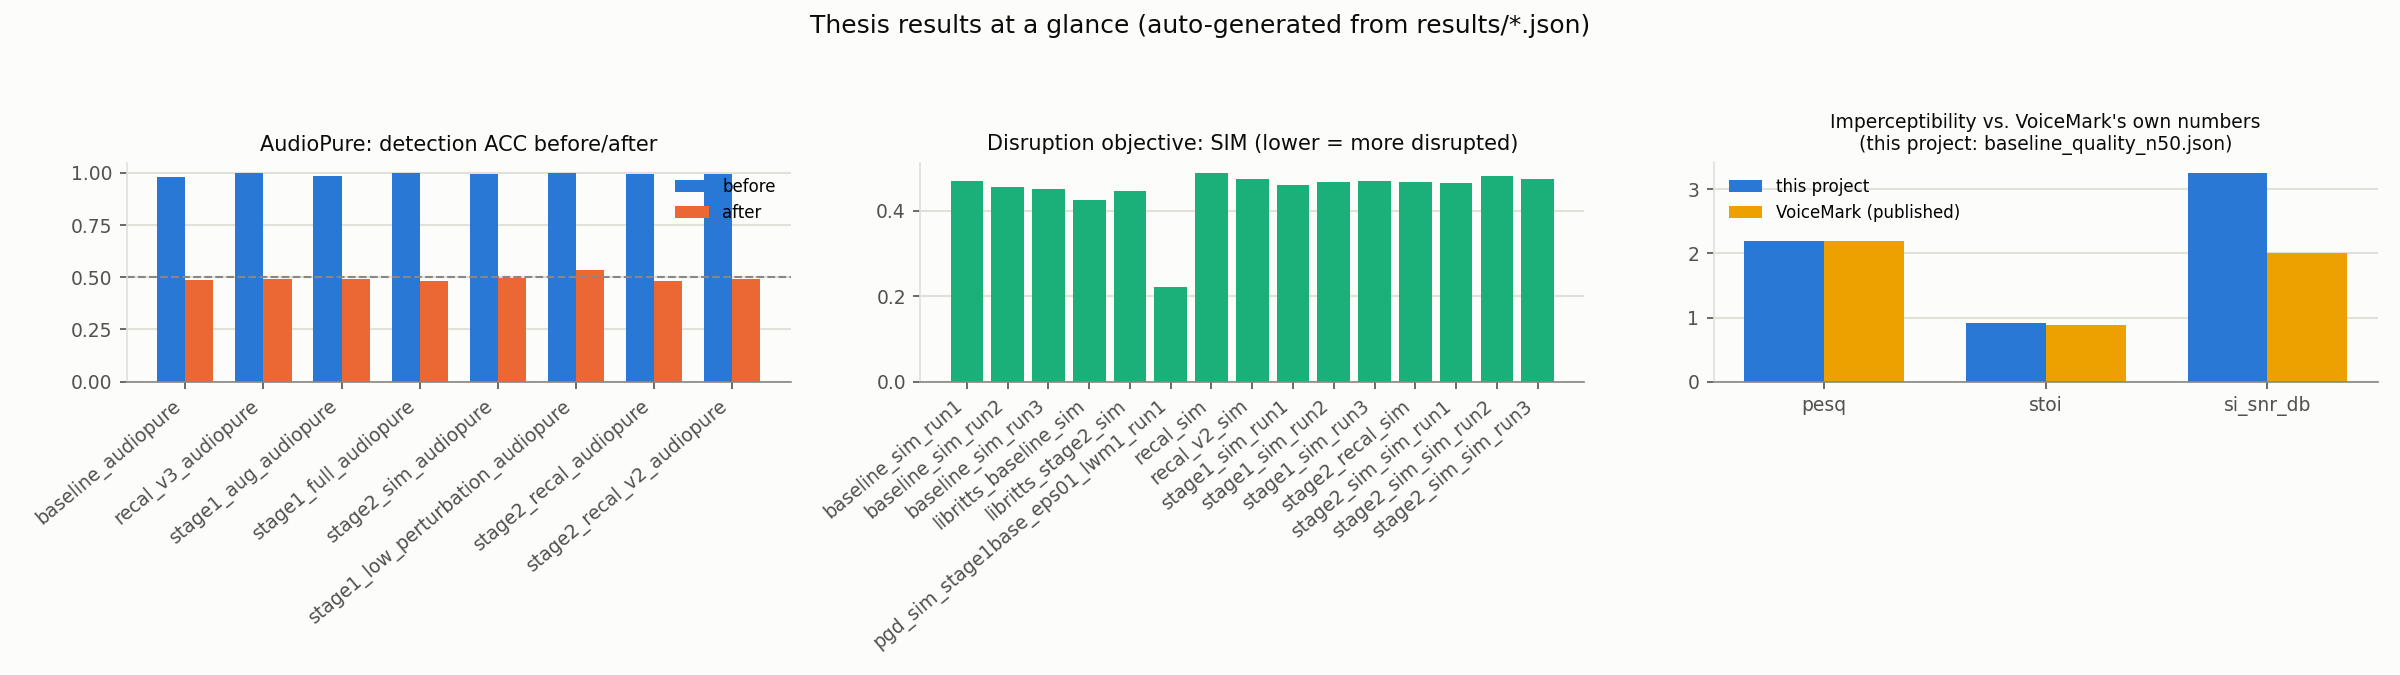
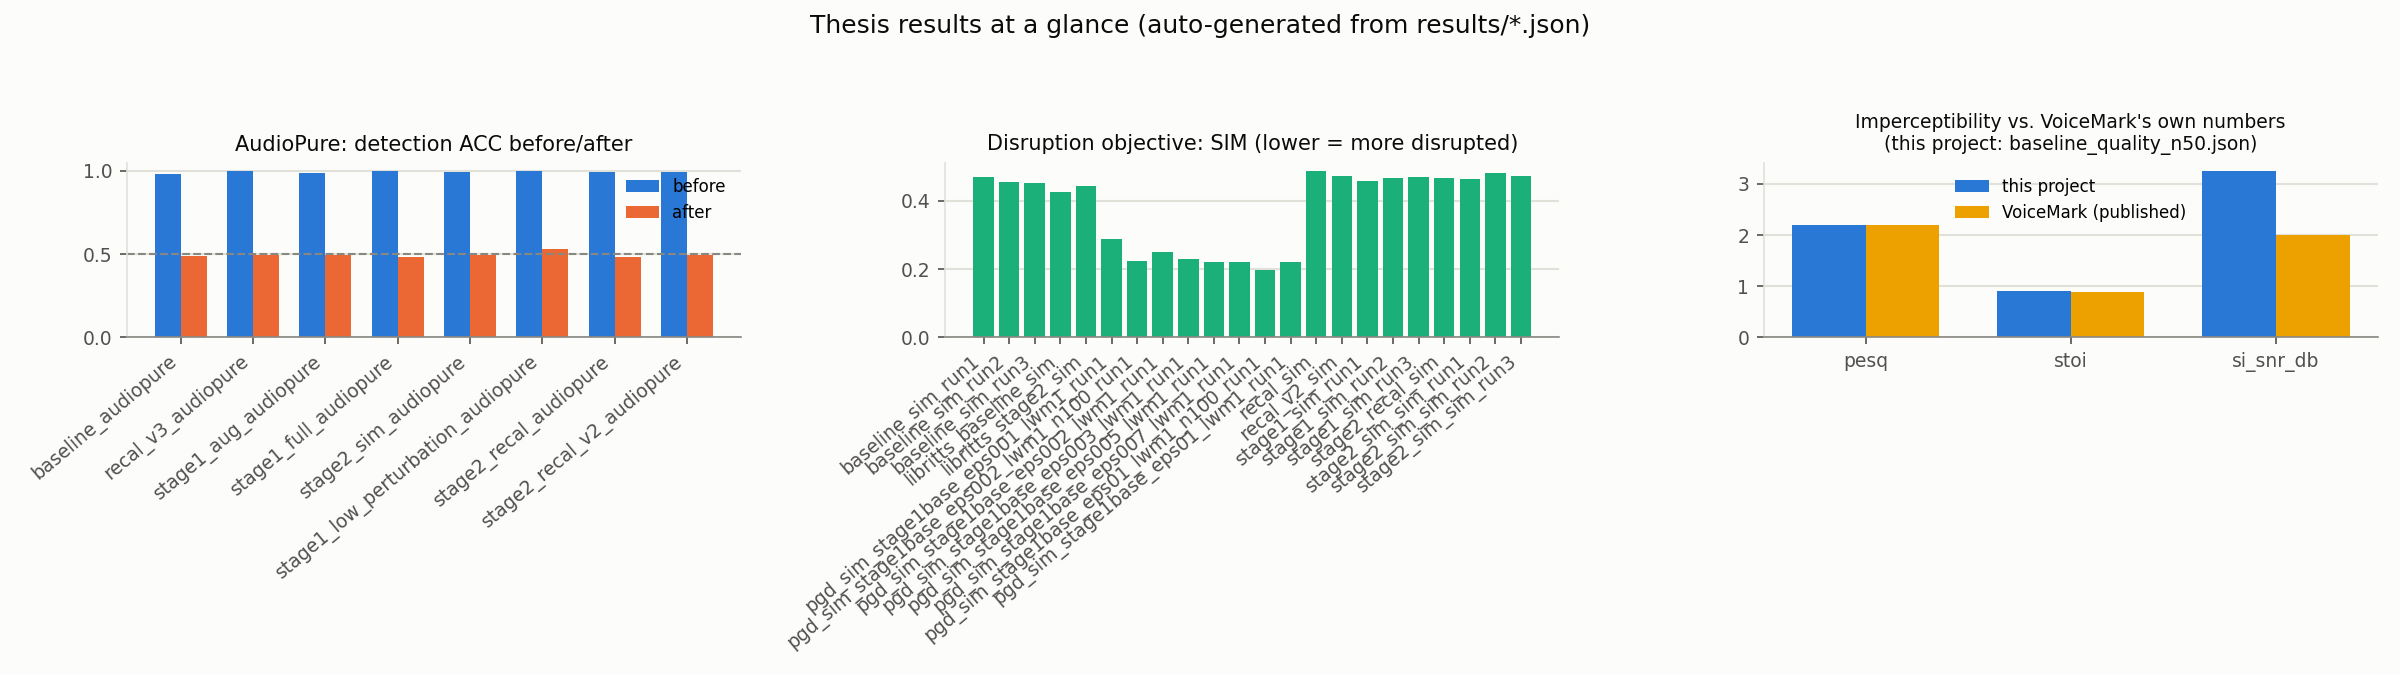
PGD hybrid: epsilon sweep, final operating point eps=0.002 lambda_wm=1.0, n=100 confirmation

diff --git a/results/aggregated/summary_table.md b/results/aggregated/summary_table.md
@@ -1,6 +1,6 @@
 # Aggregated results summary
 
-Generated from 43 files in results/. Values under 'this project' are measured; the two reference blocks below are literal transcriptions of published numbers, not measured here.
+Generated from 50 files in results/. Values under 'this project' are measured; the two reference blocks below are literal transcriptions of published numbers, not measured here.
 
 
 ## Audio quality (PESQ/STOI/SI-SNR)
@@ -42,24 +42,31 @@ Generated from 43 files in results/. Values under 'this project' are measured; t
 
 ## Disruption (SIM)
 
-| label                                                                                     | sample_dir                         |   mean_pesq |   mean_stoi |   mean_snr_db |   mean_wer | reference_text                             |      sim |   pivotal_distance |   sim_before |   sim_after |   sim_drop |   pivotal_before |   pivotal_after |   detection_acc_before |   detection_acc_after |   detection_acc_drop |   perturbation_linf_mean |   perturbation_snr_db_mean |
-|:------------------------------------------------------------------------------------------|:-----------------------------------|------------:|------------:|--------------:|-----------:|:-------------------------------------------|---------:|-------------------:|-------------:|------------:|-----------:|-----------------:|----------------:|-----------------------:|----------------------:|---------------------:|-------------------------:|---------------------------:|
-| baseline                                                                                  | nan                                |      nan    |    nan      |      nan      |   nan      | nan                                        |   0.4246 |             2.2107 |     nan      |    nan      |   nan      |         nan      |        nan      |               nan      |              nan      |             nan      |                   nan    |                   nan      |
-| ./checkpoints/stage2_sim_longrun_recalibrated_v2/recalibrated_final.pt                    | nan                                |      nan    |    nan      |      nan      |   nan      | nan                                        |   0.4448 |             2.1913 |     nan      |    nan      |   nan      |         nan      |        nan      |               nan      |              nan      |             nan      |                   nan    |                   nan      |
-| baseline                                                                                  | nan                                |      nan    |    nan      |      nan      |   nan      | nan                                        |   0.4704 |             1.8514 |     nan      |    nan      |   nan      |         nan      |        nan      |               nan      |              nan      |             nan      |                   nan    |                   nan      |
-| baseline                                                                                  | nan                                |      nan    |    nan      |      nan      |   nan      | nan                                        |   0.4552 |             1.8747 |     nan      |    nan      |   nan      |         nan      |        nan      |               nan      |              nan      |             nan      |                   nan    |                   nan      |
-| baseline                                                                                  | nan                                |      nan    |    nan      |      nan      |   nan      | nan                                        |   0.451  |             1.8734 |     nan      |    nan      |   nan      |         nan      |        nan      |               nan      |              nan      |             nan      |                   nan    |                   nan      |
-| pgd_eps0.01_n10_lwm1.0_on_./checkpoints/stage1_full_recalibrated_v3/recalibrated_final.pt | nan                                |      nan    |    nan      |      nan      |   nan      | nan                                        |   0.2214 |           nan      |       0.4675 |      0.2214 |     0.2461 |           1.8841 |          1.8471 |                 0.9952 |                0.9928 |               0.0024 |                     0.01 |                    19.3834 |
-| ./checkpoints/stage1_full_recalibrated/recalibrated_final.pt                              | nan                                |      nan    |    nan      |      nan      |   nan      | nan                                        |   0.4881 |             1.8611 |     nan      |    nan      |   nan      |         nan      |        nan      |               nan      |              nan      |             nan      |                   nan    |                   nan      |
-| ./checkpoints/stage1_full_recalibrated_v2/recalibrated_final.pt                           | nan                                |      nan    |    nan      |      nan      |   nan      | nan                                        |   0.4737 |             1.8798 |     nan      |    nan      |   nan      |         nan      |        nan      |               nan      |              nan      |             nan      |                   nan    |                   nan      |
-| ./checkpoints/stage1_full/stage1_epoch29.pt                                               | nan                                |      nan    |    nan      |      nan      |   nan      | nan                                        |   0.4593 |             1.8662 |     nan      |    nan      |   nan      |         nan      |        nan      |               nan      |              nan      |             nan      |                   nan    |                   nan      |
-| ./checkpoints/stage1_full/stage1_epoch29.pt                                               | nan                                |      nan    |    nan      |      nan      |   nan      | nan                                        |   0.4664 |             1.8688 |     nan      |    nan      |   nan      |         nan      |        nan      |               nan      |              nan      |             nan      |                   nan    |                   nan      |
-| ./checkpoints/stage1_full/stage1_epoch29.pt                                               | nan                                |      nan    |    nan      |      nan      |   nan      | nan                                        |   0.4695 |             1.8949 |     nan      |    nan      |   nan      |         nan      |        nan      |               nan      |              nan      |             nan      |                   nan    |                   nan      |
-| ./checkpoints/stage2_sim_longrun/stage2_epoch29.pt                                        | nan                                |      nan    |    nan      |      nan      |   nan      | nan                                        |   0.4654 |             1.8536 |     nan      |    nan      |   nan      |         nan      |        nan      |               nan      |              nan      |             nan      |                   nan    |                   nan      |
-| ./checkpoints/stage2_sim_longrun/stage2_epoch29.pt                                        | nan                                |      nan    |    nan      |      nan      |   nan      | nan                                        |   0.4803 |             1.8498 |     nan      |    nan      |   nan      |         nan      |        nan      |               nan      |              nan      |             nan      |                   nan    |                   nan      |
-| ./checkpoints/stage2_sim_longrun/stage2_epoch29.pt                                        | nan                                |      nan    |    nan      |      nan      |   nan      | nan                                        |   0.4735 |             1.8574 |     nan      |    nan      |   nan      |         nan      |        nan      |               nan      |              nan      |             nan      |                   nan    |                   nan      |
-| ./checkpoints/stage2_sim_longrun_recalibrated/recalibrated_final.pt                       | nan                                |      nan    |    nan      |      nan      |   nan      | nan                                        |   0.4671 |             1.8686 |     nan      |    nan      |   nan      |         nan      |        nan      |               nan      |              nan      |             nan      |                   nan    |                   nan      |
-| ./audio_samples/stage2_sim_longrun                                                        | ./audio_samples/stage2_sim_longrun |        2.18 |      0.9042 |        4.9038 |     0.0312 | This is a test sentence for voice cloning. | nan      |           nan      |     nan      |    nan      |   nan      |         nan      |        nan      |               nan      |              nan      |             nan      |                   nan    |                   nan      |
+| label                                                                                      | sample_dir                         |   mean_pesq |   mean_stoi |   mean_snr_db |   mean_wer | reference_text                             |      sim |   pivotal_distance |   sim_before |   sim_after |   sim_drop |   pivotal_before |   pivotal_after |   detection_acc_before |   detection_acc_after |   detection_acc_drop |   perturbation_linf_mean |   perturbation_snr_db_mean |
+|:-------------------------------------------------------------------------------------------|:-----------------------------------|------------:|------------:|--------------:|-----------:|:-------------------------------------------|---------:|-------------------:|-------------:|------------:|-----------:|-----------------:|----------------:|-----------------------:|----------------------:|---------------------:|-------------------------:|---------------------------:|
+| baseline                                                                                   | nan                                |      nan    |    nan      |      nan      |   nan      | nan                                        |   0.4246 |             2.2107 |     nan      |    nan      |   nan      |         nan      |        nan      |               nan      |              nan      |             nan      |                  nan     |                   nan      |
+| ./checkpoints/stage2_sim_longrun_recalibrated_v2/recalibrated_final.pt                     | nan                                |      nan    |    nan      |      nan      |   nan      | nan                                        |   0.4448 |             2.1913 |     nan      |    nan      |   nan      |         nan      |        nan      |               nan      |              nan      |             nan      |                  nan     |                   nan      |
+| baseline                                                                                   | nan                                |      nan    |    nan      |      nan      |   nan      | nan                                        |   0.4704 |             1.8514 |     nan      |    nan      |   nan      |         nan      |        nan      |               nan      |              nan      |             nan      |                  nan     |                   nan      |
+| baseline                                                                                   | nan                                |      nan    |    nan      |      nan      |   nan      | nan                                        |   0.4552 |             1.8747 |     nan      |    nan      |   nan      |         nan      |        nan      |               nan      |              nan      |             nan      |                  nan     |                   nan      |
+| baseline                                                                                   | nan                                |      nan    |    nan      |      nan      |   nan      | nan                                        |   0.451  |             1.8734 |     nan      |    nan      |   nan      |         nan      |        nan      |               nan      |              nan      |             nan      |                  nan     |                   nan      |
+| pgd_eps0.001_n10_lwm1.0_on_./checkpoints/stage1_full_recalibrated_v3/recalibrated_final.pt | nan                                |      nan    |    nan      |      nan      |   nan      | nan                                        |   0.2884 |           nan      |       0.4661 |      0.2884 |     0.1777 |           1.8657 |          1.7939 |                 0.9952 |                1      |              -0.0048 |                    0.001 |                    39.323  |
+| pgd_eps0.002_n10_lwm1.0_on_./checkpoints/stage1_full_recalibrated_v3/recalibrated_final.pt | nan                                |      nan    |    nan      |      nan      |   nan      | nan                                        |   0.2234 |           nan      |       0.4544 |      0.2234 |     0.2309 |           2.0047 |          2.0241 |                 0.9969 |                0.9988 |              -0.0019 |                    0.002 |                    32.6713 |
+| pgd_eps0.002_n10_lwm1.0_on_./checkpoints/stage1_full_recalibrated_v3/recalibrated_final.pt | nan                                |      nan    |    nan      |      nan      |   nan      | nan                                        |   0.2507 |           nan      |       0.4539 |      0.2507 |     0.2032 |           1.8644 |          1.7963 |                 0.9952 |                0.9952 |               0      |                    0.002 |                    33.3035 |
+| pgd_eps0.003_n10_lwm1.0_on_./checkpoints/stage1_full_recalibrated_v3/recalibrated_final.pt | nan                                |      nan    |    nan      |      nan      |   nan      | nan                                        |   0.2308 |           nan      |       0.4485 |      0.2308 |     0.2176 |           1.8443 |          1.8033 |                 0.9952 |                0.9928 |               0.0024 |                    0.003 |                    29.7926 |
+| pgd_eps0.005_n10_lwm1.0_on_./checkpoints/stage1_full_recalibrated_v3/recalibrated_final.pt | nan                                |      nan    |    nan      |      nan      |   nan      | nan                                        |   0.2204 |           nan      |       0.461  |      0.2204 |     0.2405 |           1.8577 |          1.7551 |                 0.9952 |                0.9928 |               0.0024 |                    0.005 |                    25.3937 |
+| pgd_eps0.007_n10_lwm1.0_on_./checkpoints/stage1_full_recalibrated_v3/recalibrated_final.pt | nan                                |      nan    |    nan      |      nan      |   nan      | nan                                        |   0.2199 |           nan      |       0.4567 |      0.2199 |     0.2368 |           1.8715 |          1.9096 |                 0.9952 |                0.9904 |               0.0048 |                    0.007 |                    22.4703 |
+| pgd_eps0.01_n10_lwm1.0_on_./checkpoints/stage1_full_recalibrated_v3/recalibrated_final.pt  | nan                                |      nan    |    nan      |      nan      |   nan      | nan                                        |   0.1984 |           nan      |       0.4569 |      0.1984 |     0.2584 |           2.0217 |          2.0346 |                 0.9969 |                0.9875 |               0.0094 |                    0.01  |                    18.7501 |
+| pgd_eps0.01_n10_lwm1.0_on_./checkpoints/stage1_full_recalibrated_v3/recalibrated_final.pt  | nan                                |      nan    |    nan      |      nan      |   nan      | nan                                        |   0.2214 |           nan      |       0.4675 |      0.2214 |     0.2461 |           1.8841 |          1.8471 |                 0.9952 |                0.9928 |               0.0024 |                    0.01  |                    19.3834 |
+| ./checkpoints/stage1_full_recalibrated/recalibrated_final.pt                               | nan                                |      nan    |    nan      |      nan      |   nan      | nan                                        |   0.4881 |             1.8611 |     nan      |    nan      |   nan      |         nan      |        nan      |               nan      |              nan      |             nan      |                  nan     |                   nan      |
+| ./checkpoints/stage1_full_recalibrated_v2/recalibrated_final.pt                            | nan                                |      nan    |    nan      |      nan      |   nan      | nan                                        |   0.4737 |             1.8798 |     nan      |    nan      |   nan      |         nan      |        nan      |               nan      |              nan      |             nan      |                  nan     |                   nan      |
+| ./checkpoints/stage1_full/stage1_epoch29.pt                                                | nan                                |      nan    |    nan      |      nan      |   nan      | nan                                        |   0.4593 |             1.8662 |     nan      |    nan      |   nan      |         nan      |        nan      |               nan      |              nan      |             nan      |                  nan     |                   nan      |
+| ./checkpoints/stage1_full/stage1_epoch29.pt                                                | nan                                |      nan    |    nan      |      nan      |   nan      | nan                                        |   0.4664 |             1.8688 |     nan      |    nan      |   nan      |         nan      |        nan      |               nan      |              nan      |             nan      |                  nan     |                   nan      |
+| ./checkpoints/stage1_full/stage1_epoch29.pt                                                | nan                                |      nan    |    nan      |      nan      |   nan      | nan                                        |   0.4695 |             1.8949 |     nan      |    nan      |   nan      |         nan      |        nan      |               nan      |              nan      |             nan      |                  nan     |                   nan      |
+| ./checkpoints/stage2_sim_longrun/stage2_epoch29.pt                                         | nan                                |      nan    |    nan      |      nan      |   nan      | nan                                        |   0.4654 |             1.8536 |     nan      |    nan      |   nan      |         nan      |        nan      |               nan      |              nan      |             nan      |                  nan     |                   nan      |
+| ./checkpoints/stage2_sim_longrun/stage2_epoch29.pt                                         | nan                                |      nan    |    nan      |      nan      |   nan      | nan                                        |   0.4803 |             1.8498 |     nan      |    nan      |   nan      |         nan      |        nan      |               nan      |              nan      |             nan      |                  nan     |                   nan      |
+| ./checkpoints/stage2_sim_longrun/stage2_epoch29.pt                                         | nan                                |      nan    |    nan      |      nan      |   nan      | nan                                        |   0.4735 |             1.8574 |     nan      |    nan      |   nan      |         nan      |        nan      |               nan      |              nan      |             nan      |                  nan     |                   nan      |
+| ./checkpoints/stage2_sim_longrun_recalibrated/recalibrated_final.pt                        | nan                                |      nan    |    nan      |      nan      |   nan      | nan                                        |   0.4671 |             1.8686 |     nan      |    nan      |   nan      |         nan      |        nan      |               nan      |              nan      |             nan      |                  nan     |                   nan      |
+| ./audio_samples/stage2_sim_longrun                                                         | ./audio_samples/stage2_sim_longrun |        2.18 |      0.9042 |        4.9038 |     0.0312 | This is a test sentence for voice cloning. | nan      |           nan      |     nan      |    nan      |   nan      |         nan      |        nan      |               nan      |              nan      |             nan      |                  nan     |                   nan      |
 
 
 ## False positive rate
